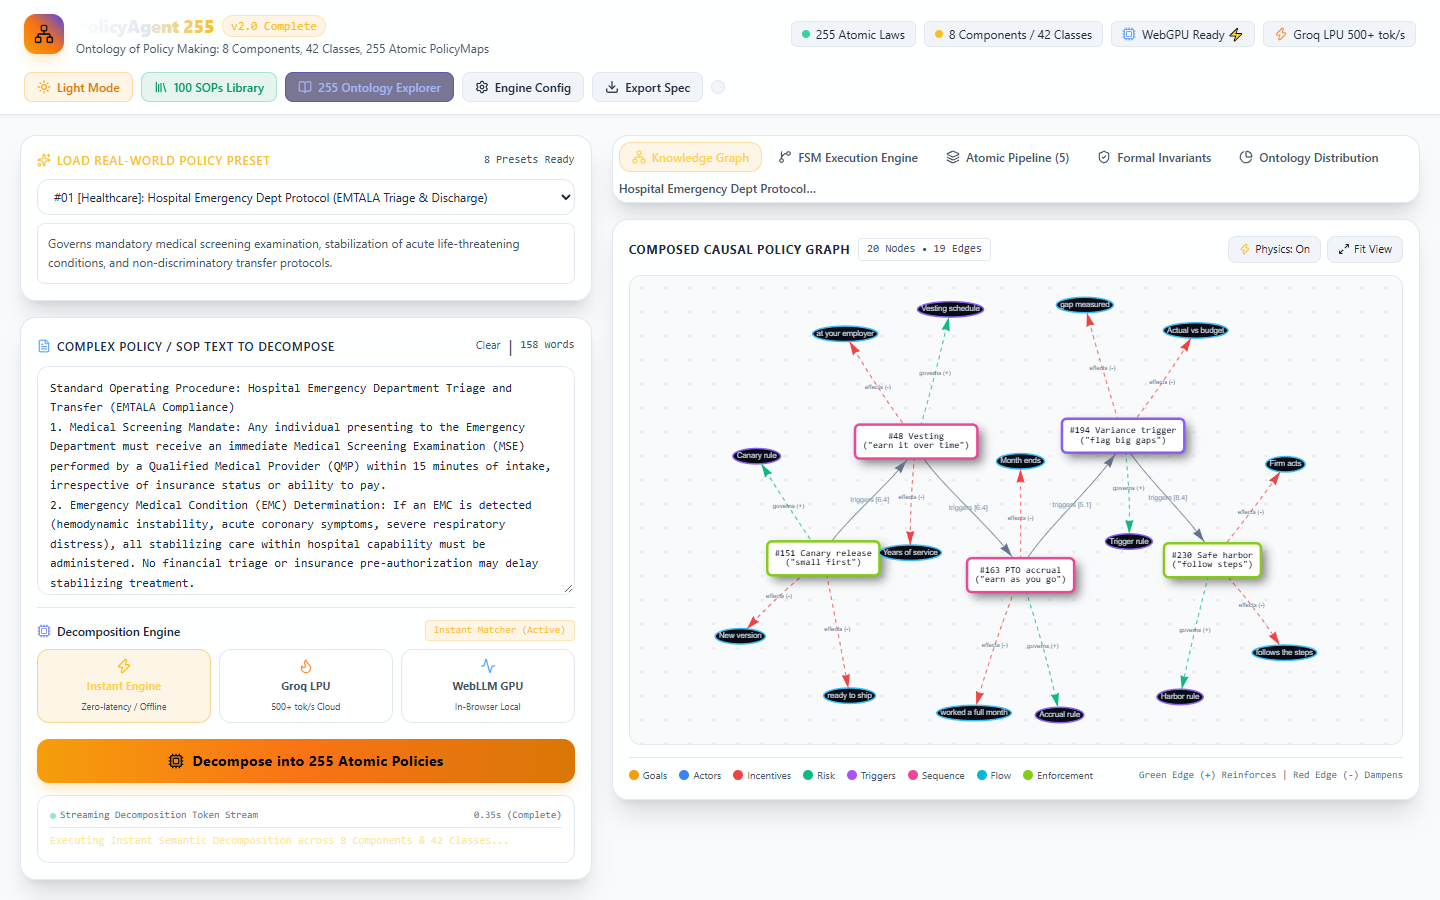
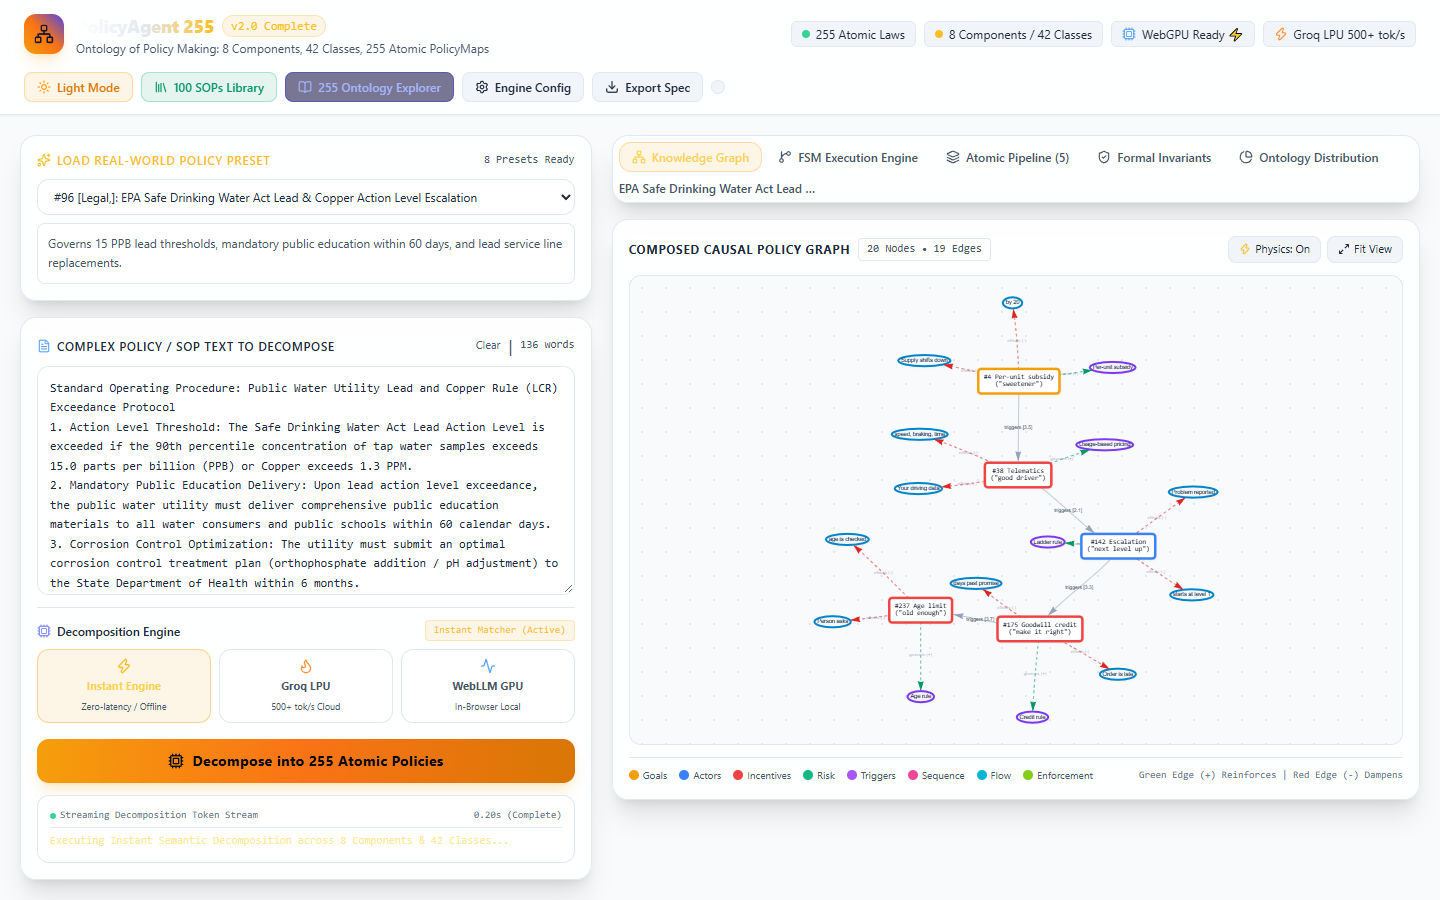
fix: Update graph end nodes to dynamic Light Mode palette with dark typography

diff --git a/index.html b/index.html
@@ -1407,8 +1407,6 @@
       const isLight = document.body.classList.contains('light-theme');
       const nodeBg = isLight ? '#ffffff' : '#0f172a';
       const nodeFontColor = isLight ? '#0f172a' : '#f8fafc';
-      const entityBg = isLight ? '#f1f5f9' : '#070b14';
-      const entityFontColor = isLight ? '#1e293b' : '#cbd5e1';
 
       dec.policies.forEach((p, pIdx) => {
         const pColor = compColors[p.comp_id] || '#f59e0b';
@@ -1417,7 +1415,8 @@
         if (!addedNodeIds.has(pNodeId)) {
           nodes.push({
             id: pNodeId,
-            label: `#${p.id} ${p.title}\n("${p.law_name}")`,
+            label: `#${p.id} ${p.title}
+("${p.law_name}")`,
             shape: 'box',
             margin: 10,
             color: {
@@ -1427,7 +1426,7 @@
             },
             font: { color: nodeFontColor, size: 12, face: 'monospace', bold: true },
             borderWidth: 2.5,
-            shadow: true,
+            shadow: isLight ? { enabled: true, color: 'rgba(0,0,0,0.06)', size: 4, x: 1, y: 1 } : true,
             policyData: p
           });
           addedNodeIds.add(pNodeId);
@@ -1435,42 +1434,72 @@
 
         if (pIdx > 0) {
           const prevPolicy = dec.policies[pIdx - 1];
+          const edgeLineColor = isLight ? '#94a3b8' : '#64748b';
+          const edgeLabelColor = isLight ? '#334155' : '#94a3b8';
           edges.push({
             from: `policy_${prevPolicy.id}`,
             to: pNodeId,
             label: `triggers [${p.class_id}]`,
             arrows: 'to',
-            color: { color: '#64748b', highlight: '#f59e0b' },
-            font: { size: 9, color: '#94a3b8', strokeWidth: 0, align: 'horizontal' },
+            color: { color: edgeLineColor, highlight: '#f59e0b' },
+            font: { size: 9, color: edgeLabelColor, strokeWidth: 0, align: 'horizontal' },
             smooth: { type: 'cubicBezier', roundness: 0.2 }
           });
         }
 
+        // End / leaf entity nodes
         if (p.kg && p.kg.nodes) {
           p.kg.nodes.slice(1, 4).forEach((kn, knIdx) => {
             const knId = `kg_${p.id}_${kn.id}`;
             if (!addedNodeIds.has(knId)) {
+              const isTrigger = kn.type === 'trigger';
+              const isOutcome = kn.type === 'outcome';
+
+              // Pure Light Mode vs Dark Mode colors for end nodes
+              let endNodeBg, endNodeBorder, endNodeFontColor;
+              if (isLight) {
+                // Crisp light pastels with dark readable typography:
+                endNodeBg = isTrigger ? '#f5f3ff' : (isOutcome ? '#ecfdf5' : '#f0f9ff');
+                endNodeBorder = isTrigger ? '#7c3aed' : (isOutcome ? '#059669' : '#0284c7');
+                endNodeFontColor = '#0f172a'; // NEVER dark pill / NEVER white text
+              } else {
+                endNodeBg = '#070b14';
+                endNodeBorder = isTrigger ? '#8b5cf6' : (isOutcome ? '#10b981' : '#38bdf8');
+                endNodeFontColor = '#cbd5e1';
+              }
+
               nodes.push({
                 id: knId,
                 label: kn.label,
                 shape: 'ellipse',
                 color: {
-                  background: '#070b14',
-                  border: kn.type === 'trigger' ? '#8b5cf6' : (kn.type === 'outcome' ? '#10b981' : '#38bdf8'),
-                  highlight: { background: '#1e293b', border: '#ffffff' }
+                  background: endNodeBg,
+                  border: endNodeBorder,
+                  highlight: { background: isLight ? '#ffffff' : '#1e293b', border: '#f59e0b' }
                 },
-                font: { color: '#cbd5e1', size: 10, face: 'sans-serif' },
-                borderWidth: 1.5
+                font: { 
+                  color: endNodeFontColor, 
+                  size: 10, 
+                  face: 'sans-serif', 
+                  bold: isLight 
+                },
+                borderWidth: isLight ? 2 : 1.5,
+                shadow: isLight ? { enabled: true, color: 'rgba(0,0,0,0.05)', size: 3, x: 1, y: 1 } : false
               });
               addedNodeIds.add(knId);
+
+              const edgeColor = knIdx === 0 
+                ? (isLight ? '#059669' : '#10b981') 
+                : (isLight ? '#dc2626' : '#ef4444');
+              const edgeFontColor = isLight ? '#334155' : '#64748b';
 
               edges.push({
                 from: pNodeId,
                 to: knId,
                 label: knIdx === 0 ? 'governs (+)' : 'effects (-)',
                 arrows: 'to',
-                color: { color: knIdx === 0 ? '#10b981' : '#ef4444' },
-                font: { size: 8, color: '#64748b', strokeWidth: 0 },
+                color: { color: edgeColor },
+                font: { size: 8, color: edgeFontColor, strokeWidth: 0 },
                 dashes: true
               });
             }

diff --git a/sop_policy_fsm_translator.html b/sop_policy_fsm_translator.html
@@ -1407,8 +1407,6 @@
       const isLight = document.body.classList.contains('light-theme');
       const nodeBg = isLight ? '#ffffff' : '#0f172a';
       const nodeFontColor = isLight ? '#0f172a' : '#f8fafc';
-      const entityBg = isLight ? '#f1f5f9' : '#070b14';
-      const entityFontColor = isLight ? '#1e293b' : '#cbd5e1';
 
       dec.policies.forEach((p, pIdx) => {
         const pColor = compColors[p.comp_id] || '#f59e0b';
@@ -1417,7 +1415,8 @@
         if (!addedNodeIds.has(pNodeId)) {
           nodes.push({
             id: pNodeId,
-            label: `#${p.id} ${p.title}\n("${p.law_name}")`,
+            label: `#${p.id} ${p.title}
+("${p.law_name}")`,
             shape: 'box',
             margin: 10,
             color: {
@@ -1427,7 +1426,7 @@
             },
             font: { color: nodeFontColor, size: 12, face: 'monospace', bold: true },
             borderWidth: 2.5,
-            shadow: true,
+            shadow: isLight ? { enabled: true, color: 'rgba(0,0,0,0.06)', size: 4, x: 1, y: 1 } : true,
             policyData: p
           });
           addedNodeIds.add(pNodeId);
@@ -1435,42 +1434,72 @@
 
         if (pIdx > 0) {
           const prevPolicy = dec.policies[pIdx - 1];
+          const edgeLineColor = isLight ? '#94a3b8' : '#64748b';
+          const edgeLabelColor = isLight ? '#334155' : '#94a3b8';
           edges.push({
             from: `policy_${prevPolicy.id}`,
             to: pNodeId,
             label: `triggers [${p.class_id}]`,
             arrows: 'to',
-            color: { color: '#64748b', highlight: '#f59e0b' },
-            font: { size: 9, color: '#94a3b8', strokeWidth: 0, align: 'horizontal' },
+            color: { color: edgeLineColor, highlight: '#f59e0b' },
+            font: { size: 9, color: edgeLabelColor, strokeWidth: 0, align: 'horizontal' },
             smooth: { type: 'cubicBezier', roundness: 0.2 }
           });
         }
 
+        // End / leaf entity nodes
         if (p.kg && p.kg.nodes) {
           p.kg.nodes.slice(1, 4).forEach((kn, knIdx) => {
             const knId = `kg_${p.id}_${kn.id}`;
             if (!addedNodeIds.has(knId)) {
+              const isTrigger = kn.type === 'trigger';
+              const isOutcome = kn.type === 'outcome';
+
+              // Pure Light Mode vs Dark Mode colors for end nodes
+              let endNodeBg, endNodeBorder, endNodeFontColor;
+              if (isLight) {
+                // Crisp light pastels with dark readable typography:
+                endNodeBg = isTrigger ? '#f5f3ff' : (isOutcome ? '#ecfdf5' : '#f0f9ff');
+                endNodeBorder = isTrigger ? '#7c3aed' : (isOutcome ? '#059669' : '#0284c7');
+                endNodeFontColor = '#0f172a'; // NEVER dark pill / NEVER white text
+              } else {
+                endNodeBg = '#070b14';
+                endNodeBorder = isTrigger ? '#8b5cf6' : (isOutcome ? '#10b981' : '#38bdf8');
+                endNodeFontColor = '#cbd5e1';
+              }
+
               nodes.push({
                 id: knId,
                 label: kn.label,
                 shape: 'ellipse',
                 color: {
-                  background: '#070b14',
-                  border: kn.type === 'trigger' ? '#8b5cf6' : (kn.type === 'outcome' ? '#10b981' : '#38bdf8'),
-                  highlight: { background: '#1e293b', border: '#ffffff' }
+                  background: endNodeBg,
+                  border: endNodeBorder,
+                  highlight: { background: isLight ? '#ffffff' : '#1e293b', border: '#f59e0b' }
                 },
-                font: { color: '#cbd5e1', size: 10, face: 'sans-serif' },
-                borderWidth: 1.5
+                font: { 
+                  color: endNodeFontColor, 
+                  size: 10, 
+                  face: 'sans-serif', 
+                  bold: isLight 
+                },
+                borderWidth: isLight ? 2 : 1.5,
+                shadow: isLight ? { enabled: true, color: 'rgba(0,0,0,0.05)', size: 3, x: 1, y: 1 } : false
               });
               addedNodeIds.add(knId);
+
+              const edgeColor = knIdx === 0 
+                ? (isLight ? '#059669' : '#10b981') 
+                : (isLight ? '#dc2626' : '#ef4444');
+              const edgeFontColor = isLight ? '#334155' : '#64748b';
 
               edges.push({
                 from: pNodeId,
                 to: knId,
                 label: knIdx === 0 ? 'governs (+)' : 'effects (-)',
                 arrows: 'to',
-                color: { color: knIdx === 0 ? '#10b981' : '#ef4444' },
-                font: { size: 8, color: '#64748b', strokeWidth: 0 },
+                color: { color: edgeColor },
+                font: { size: 8, color: edgeFontColor, strokeWidth: 0 },
                 dashes: true
               });
             }
